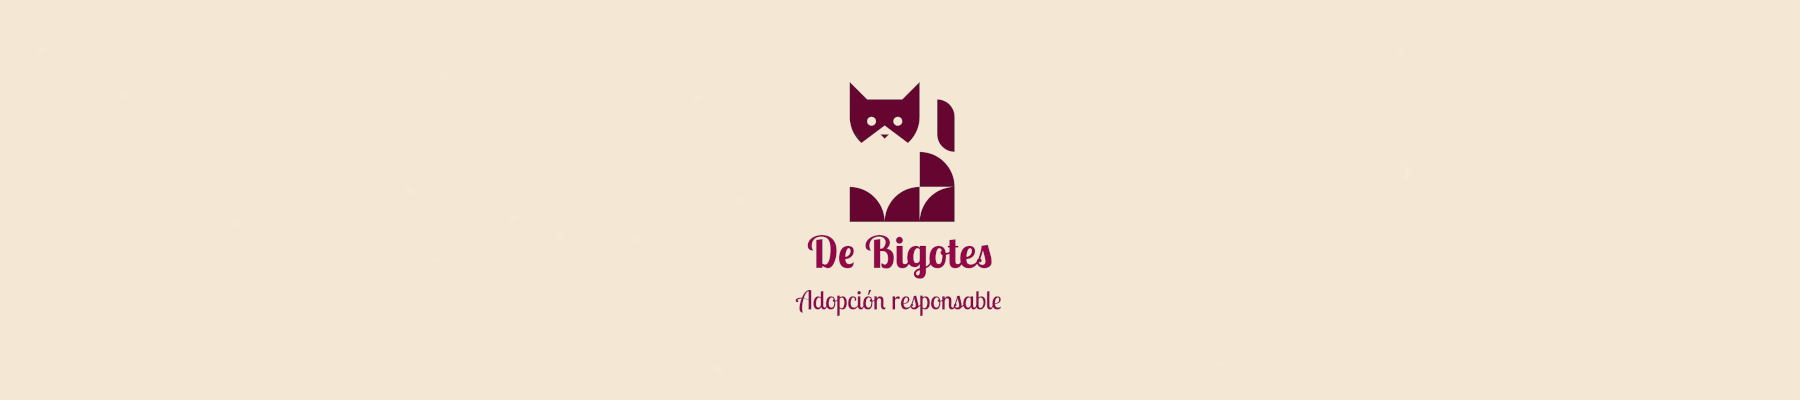
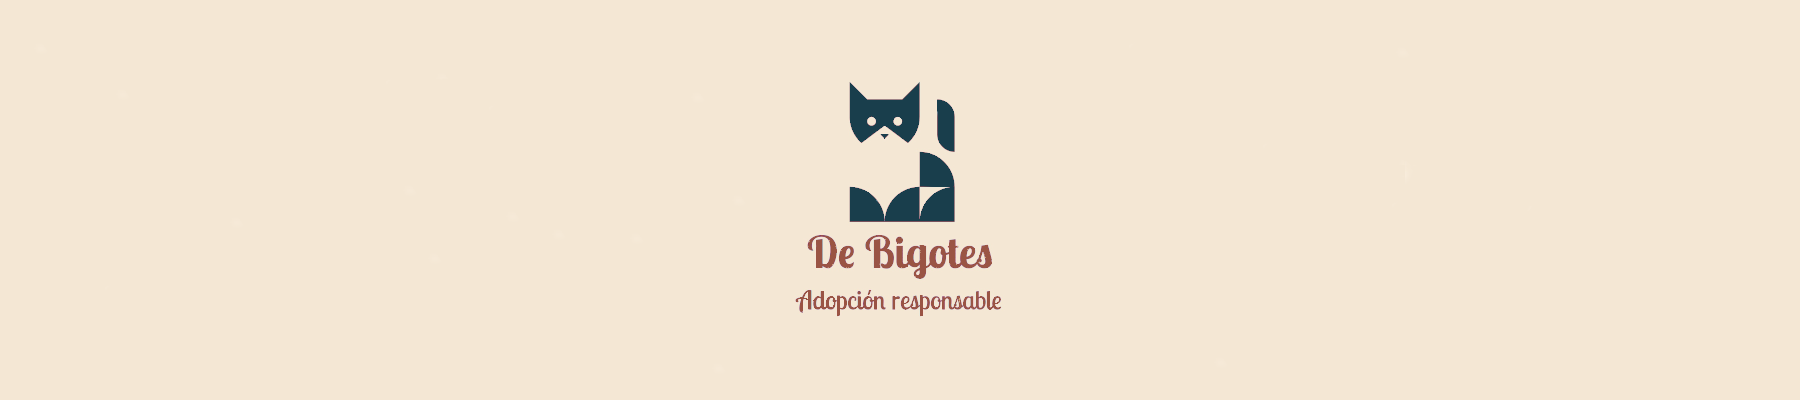
proyecto terminado

Changed region(s): [[0.4667, 0.21, 0.5289, 0.57], [0.4356, 0.6, 0.56, 0.69], [0.4356, 0.72, 0.56, 0.78]]

diff --git a/Proyecto-final-JS-main/css/gatitos.css b/Proyecto-final-JS-main/css/gatitos.css
@@ -3,25 +3,23 @@
     margin: 0;
     padding: 0;
     font-family: 'Roboto', sans-serif;
-    --color-1: #970747;
-    --color-2: #111111;
+    --color-1: #9A5444;
+    --color-2: #193E4C;
     --color-3: #fef4e8;
-    --color-4: #c8095e;
-    --color-5: #660530;
-    --color-6: #2a2a2a;
-  }
-
-body{
-    margin: 0;
-    
-    background-color: var(--color-3) ;
+    --color-4: #DEB887;
+    --color-5: #5195A8;
+    --color-6: #2a2a2a;     
 }
-/* //HTML 1// */
-
+body{
+    margin: 0;    
+    background-color: var(--color-3)!important;
+}
 .contenedor-banner {
     max-width: 100%;
     height: auto;
-    
+    margin-right: 15px;   
+    margin-left: 15px; 
+    margin-top: 10px;    
 }
 header{
     padding-bottom: 10px;
@@ -30,7 +28,7 @@ header{
     box-sizing: border-box; 
     max-width: 100%; 
     height: 50%;
-    border: 15px solid var(--color-1);        
+    border: 5px solid var(--color-1);     
 }
 .card-img {
     object-fit: cover;     
@@ -38,15 +36,12 @@ header{
     box-sizing: border-box;
     max-width: 300px;
 }
-
-
-.col-md-8{
-    
-    background-color: var(--color-3);
+.col-md-8{    
+    background-color: var(--color-4);
+    color: var(--color-2)!important;
 }
 .col-md-4{
-    
-    background-color: var(--color-3);
+    background-color: var(--color-4);   
 }
 #informacion {
     margin: 10px;
@@ -54,17 +49,16 @@ header{
     display: grid;
     grid-template-columns: 1fr; 
     grid-template-rows: repeat(3, 1fr);
-    grid-row-gap: 14px;
-    
+    grid-row-gap: 14px;    
 }
 h5{
     font-weight:bolder!important;
+    color: var(--color-2)!important;
 }
 .card.mb-3{
     border: 4px solid var(--color-1)!important; 
     margin-left: 20px;
-    margin-right: 20px;
-    
+    margin-right: 20px;    
 }
 .div-item {
     display: flex;
@@ -76,34 +70,33 @@ h5{
     font-size:12px ;    
     padding: 20px;
     border: 4px solid var(--color-1)!important; 
-    cursor: pointer;
-    
+    cursor: pointer;    
 } 
 .div-item.card{
-    background-color: var(--color-3);
-       
+    background-color: var(--color-4);       
 }
-
 .div-item img {
     width: 150px;
     height: 150px;
     object-fit: cover;
     border-radius: 50%;
-    border: 3px solid var(--color-1)!important; 
-    
+    border: 3px solid var(--color-1)!important;    
 } 
-
 h1{
-    color: var(--color-1)!important;
+    color: var(--color-2)!important;
     font-size: 1.2vw;       
     font-weight: 900 !important;
     border-radius: 5px;
     text-align: center;
-    padding: 0.5em 0 0.5em
-    
+    padding: 0.5em 0 0.5em    
 }
 .contenedor{
-    position: relative;
+    border: 4px solid var(--color-1)!important; 
+    margin-left: 20px;
+    margin-right: 20px;     
+}
+.esteGatito{
+    background-color: var(--color-4)!important;    
 }
 .esteGatito img{
     justify-content: center;
@@ -111,28 +104,55 @@ h1{
     display: block;
     margin: 0 auto;
     border-radius: 50%;
-    border: 3px solid var(--color-1)!important; 
-    background-color: var(--color-3); 
-    
+    border: 3px solid var(--color-4)!important; 
+    background-color: var(--color-1); 
+    margin-top: 15px;    
 }
 .card-body{    
     width: auto;    
+}
+.card-title1{
+    text-shadow: 1px var(--color-2);
+    font-size: 23px;    
+}
+.card-title{
+    text-shadow: 1px var(--color-2);
+    font-size: 23px;    
+}
+.card-title:hover{
+    color: var(--color-5)!important;
 }
 h3{
     padding: 10px;
 }
 .mi-boton{
     background-color: var(--color-5);
-    border-radius: 5px;
+    border-radius: 3px;
     padding: 10px 20px;
     border: none;
     color: var(--color-3);
+    margin-bottom: 15px;
+    box-shadow: 2px 2px var(--color-2);
     &:hover{
-        background-color: #c8095e;
+        background-color: var(--color-4);
     }
 }
-
-
+footer{
+    background-color: var(--color-6);
+    color: var(--color-3);    
+    padding: 10px;
+}
+#div-redes{
+    gap: 10px;
+}
+#logo{
+    font-size: 20px;
+    margin: 0;
+    color: var(--color-4);    
+}
+.col.text-center{
+    align-items: center!important;    
+}
 @media (min-width: 768px) {
     #informacion {
         grid-template-columns: repeat(3, 1fr);

diff --git a/Proyecto-final-JS-main/index.html b/Proyecto-final-JS-main/index.html
@@ -3,7 +3,7 @@
 <head>
     <meta charset="UTF-8">
     <meta name="viewport" content="width=device-width, initial-scale=1.0">
-    <link rel="icon" type="image/png" sizes="16x16" href="/img/logo gato 16px.png">
+    <link rel="icon" type="image/ico" href="/img/IconoBigotes.ico" sizes="32x32">
     <link rel="stylesheet" href="/css/gatitos.css">
     <link href="https://fonts.googleapis.com/css2?family=Roboto:wght@400&display=swap" rel="stylesheet">
     <link href="https://cdn.jsdelivr.net/npm/bootstrap@5.3.0/dist/css/bootstrap.min.css" rel="stylesheet" integrity="sha384-9ndCyUaIbzAi2FUVXJi0CjmCapSmO7SnpJef0486qhLnuZ2cdeRhO02iuK6FUUVM" crossorigin="anonymous">
@@ -19,7 +19,7 @@
           </div>
           <div class="col-md-8">
             <div class="card-body">
-                <h5 class="card-title">Sobre nosotros</h5> 
+                <h5 class="card-title1">Sobre nosotros</h5> 
                 <p class="card-text">Somos una asociación civil sin fines de lucro que da en adopción 300 gatitos por año y ayudamos a otros 150 que tienen enfermedades o accidentes graves. En De Bigotes, creemos que cada gatito merece un hogar lleno de amor y cuidado. Somos una organización dedicada a la adopción responsable y al bienestar de estos adorables felinos. Cada familia es entrevistada antes de realizar la adopción, y nos aseguramos de que cumpla con el habitat necesario para la misma.</p>
                 <p>Tené en cuenta los gastos mensuales relacionados, cuidados generales que necesitará para que se encuentre saludable y cómodo y con quién dejarlo en caso de salir de vacaciones.</p>
             </div>
@@ -45,9 +45,21 @@
     </div>
     <div id="informacion">        
     </div>    
-    <footer>@copyright</footer> 
+    <footer>
+        <div class="footer container">
+            <div class="row align-items-center" id="div-redes">
+                <div class="col md-4 text-center mx-auto">
+                    <p id="logo"><img src="/img/instagram.png" alt="Logo">  DeBigotes</p>                
+                </div>
+                <div class="col md-4 text-center mx-auto">
+                    <a href="https://www.gifsanimados.org/cat-gatos-209.htm"><img src="https://www.gifsanimados.org/data/media/209/gato-imagen-animada-0239.gif" border="0" alt="gato-imagen-animada-0239" /></a>
+                </div>    
+                <div class="col md-4 text-center mx-auto">
+                    <p id="logo"><img src="/img/facebook.png" alt="Logo">  DeBigotes</p>                
+                </div>
+            </div>
+        </div>
+      </footer> 
     <script defer src="/js/gatitos.js"></script>
 </body>
-
-
 </html>

diff --git a/Proyecto-final-JS-main/infoGatitos.html b/Proyecto-final-JS-main/infoGatitos.html
@@ -3,7 +3,7 @@
 <head>
     <meta charset="UTF-8">
     <meta name="viewport" content="width=device-width, initial-scale=1.0">
-    <link rel="icon" type="image/png" sizes="16x16" href="/img/logo gato 16px.png">
+    <link rel="icon" type="image/ico" href="/img/IconoBigotes.ico" sizes="32x32">
     <link rel="stylesheet" href="/css/gatitos.css">
     <link href="https://fonts.googleapis.com/css2?family=Roboto:wght@400&display=swap" rel="stylesheet">
     <link href="https://cdn.jsdelivr.net/npm/bootstrap@5.3.0/dist/css/bootstrap.min.css" rel="stylesheet" integrity="sha384-9ndCyUaIbzAi2FUVXJi0CjmCapSmO7SnpJef0486qhLnuZ2cdeRhO02iuK6FUUVM" crossorigin="anonymous">
@@ -16,15 +16,26 @@
     <h1>Querés adoptarme?</h1>
         <div id="contenedor" class="contenedor">            
         </div>
-    <!-- <div class="botones">     
-    <button>Preguntá por mi</button>      
-    <button><a href="index.html">Volver</a></button>
-    </div> -->
+    
     <div class="botones d-flex justify-content-center mt-4">     
         <button class="mi-boton me-2" id="pregunta">Preguntá por mí</button>      
         <button class="mi-boton"><a href="index.html" class="text-decoration-none text-white">Volver</a></button>
     </div>
-    
+    <footer>
+        <div class="footer container">
+            <div class="row d-flex  align-items-center" id="div-redes">
+                <div class="col text-center mx-auto">
+                    <p id="logo"><img src="/img/instagram.png" alt="Logo">  DeBigotes</p>                
+                </div>
+                <div class="col text-center">
+                    <a href="https://www.gifsanimados.org/cat-gatos-209.htm"><img src="https://www.gifsanimados.org/data/media/209/gato-imagen-animada-0239.gif" border="0" alt="gato-imagen-animada-0239" /></a>
+                </div>    
+                <div class="col text-center">
+                    <p id="logo"><img src="/img/facebook.png" alt="Logo">  DeBigotes</p>                
+                </div>
+            </div>
+        </div>
+      </footer> 
 <script defer src="/js/info.js"></script>
 </body>
 </html>

diff --git a/Proyecto-final-JS-main/js/info.js b/Proyecto-final-JS-main/js/info.js
@@ -20,24 +20,21 @@ document.addEventListener ("DOMContentLoaded", () => {
         muestroGatito.innerHTML = `
         <img src="${gatitoElegido.imagen}" class="card-img" style="width: 40%;">
         <div class="card-body text-center mx-auto"> 
-        <h2 class="card-title">Me llamo ${gatitoElegido.nombre}</h2>
+        <h2 class="card-title1">Me llamo ${gatitoElegido.nombre}</h2>
+        <p class="card-text"> ${gatitoElegido.descripcion}</p>
         <p class="card-text">Tengo ${gatitoElegido.edad}</p>
         <p class="card-text">Soy un gatito ${gatitoElegido.raza}</p>
         <p class="card-text">Tengo vacunas ${gatitoElegido.vacunas}</p>
-        <p class="card-text">Estoy castrado? ${gatitoElegido.castrado}</p>
+        <p class="card-text">${gatitoElegido.castrado}</p>
         </div>
         `;
         contenedor.appendChild(muestroGatito);          
     }
-    document.getElementById("pregunta").onclick = function() {
-        var email = prompt("Por favor, dejanos tu email");
     
-        if (email !== null && email.includes("@") && email.includes(".com")) {
-            localStorage.setItem("email", email);
-            alert("Muchas gracias!! Nos contactaremos a la brevedad.");
-        } else if (email !== null) {
-            alert("El correo electrónico ingresado no es válido.");
-        }
+    document.getElementById("pregunta").onclick = function() {
+        alert("Por favor, envianos un email a deBigotes@gmail.com");
+    
+        
     }
 
 });
